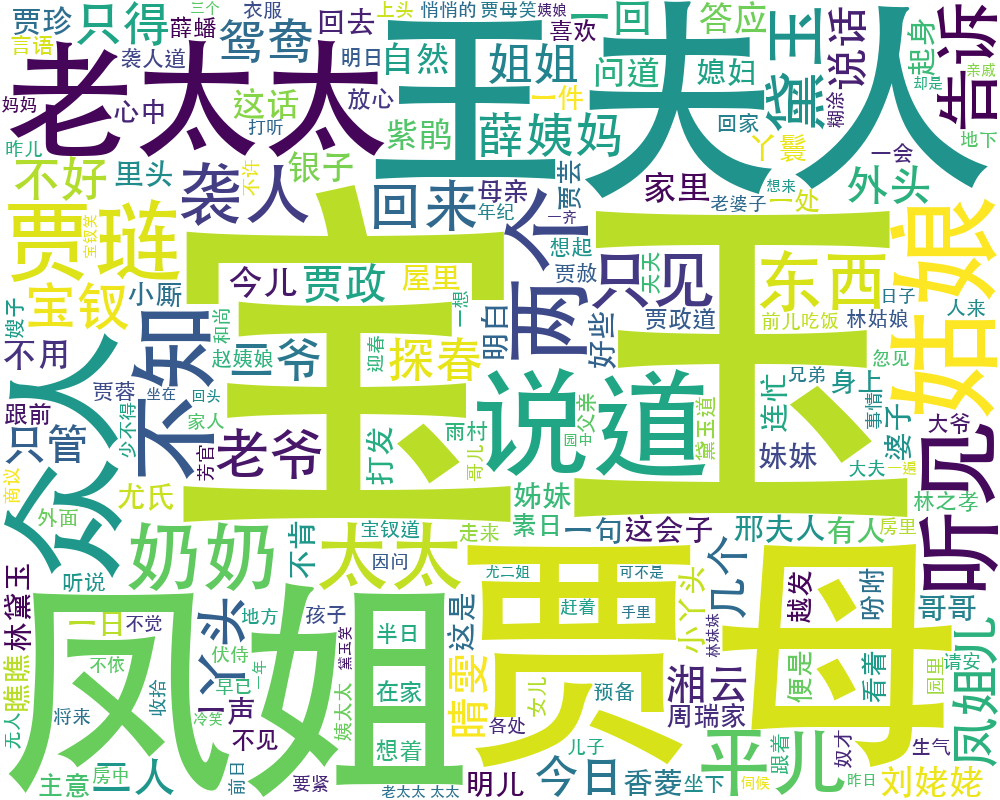
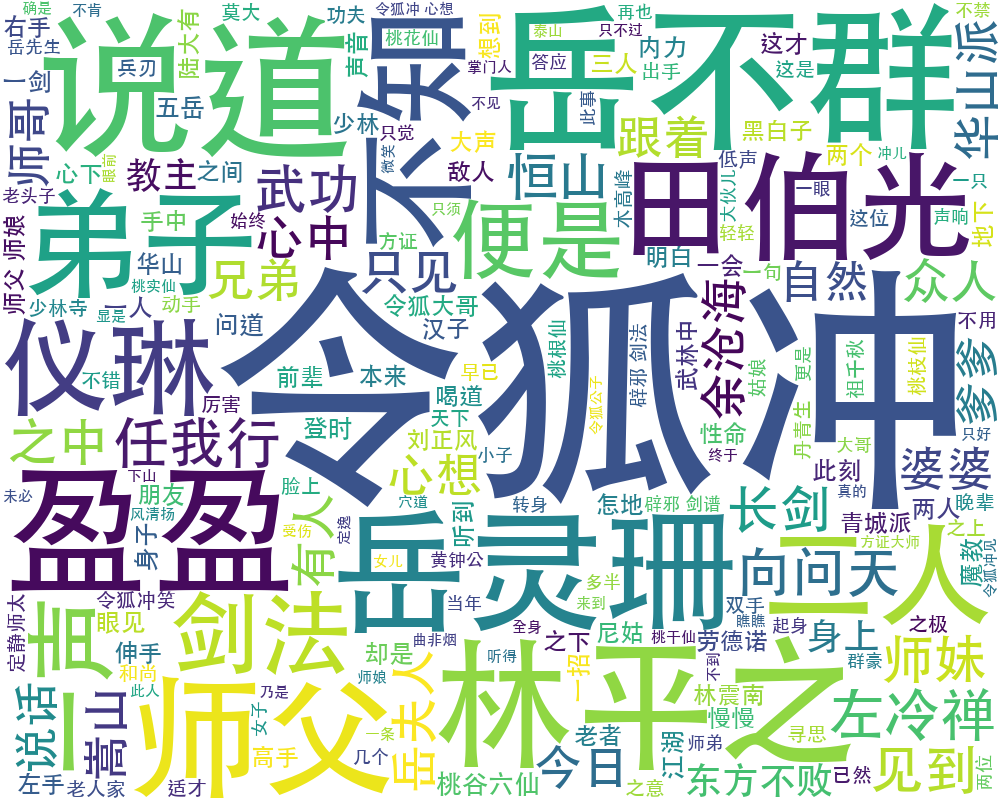
lecture 16

diff --git a/index.html b/index.html
@@ -201,7 +201,7 @@
                             <li>Lecture 16的案例 
                                 <p>Mozart's Dice: <a href="https://github.com/mmontori1/Mozart-Musical-Dice">代码原版</a>, <a href="lecture16/dice.py">课堂修改版</a>, <a href="lecture16/waves.zip">音乐文件</a><a href="http://www.playonlinedicegames.com/mozart" target="_blank" rel="noopener"></a><br />
                             Wordcloud: <a href="lecture16/sanguo.txt" target="_blank">三国演义</a>, <a href="lecture16/hongloumeng.txt" target="_blank">红楼梦</a>, <a href="lecture16/stopwords.zip" target="_blank" rel="noopener">中文停用词表</a>, <a href="lecture16/wordcloud.py" target="_blank" rel="noopener">最终代码</a><br />
-                            Ascii Art: <a href="lecture16/ultraman.flv" target="_blank">短视频1</a>, <a href="lecture16/shaking.flv" target="_blank">短视频2</a>, <a href="lecture16/asciiart.py" target="_blank" rel="noopener">代码</a>
+                            Ascii Art: <a href="lecture16/ultraman.flv" target="_blank">短视频1</a>, <a href="lecture16/shaking.flv" target="_blank">短视频2</a>, <a href="lecture16/asciiart.py" target="_blank" rel="noopener">完整代码</a>
 
                             </p>
                         </li>

diff --git a/lecture16/index.html b/lecture16/index.html
@@ -266,7 +266,7 @@ with open(filename, encoding="utf-8") as f_obj:
 
 def sw(filename):
     with open(filename, encoding="utf-8") as f_obj:
-        x = file.readlines()
+        x = f_obj.readlines()
     y = [word.strip() for word in x]
     return y
 </code></pre>

diff --git a/lecture16/sanguo1.py b/lecture16/sanguo1.py
@@ -1,6 +1,6 @@
 from wordcloud import WordCloud
 import jieba
-filename = 'hongloumeng.txt'
+filename = 'xiaoaojianghu.txt'
 with open(filename, encoding="utf-8") as f_obj:
     contents = f_obj.read()
 def sw(filename):

diff --git a/lecture16/test.py b/lecture16/test.py
@@ -1,5 +1,5 @@
 from moviepy.editor import *
-clip = VideoFileClip("shaking.flv")
+clip = VideoFileClip("ultraman.flv")
 clip = clip.subclip(0, 8) #剪切前8秒
 clip.write_gif("video.gif") #保存为gif
 
